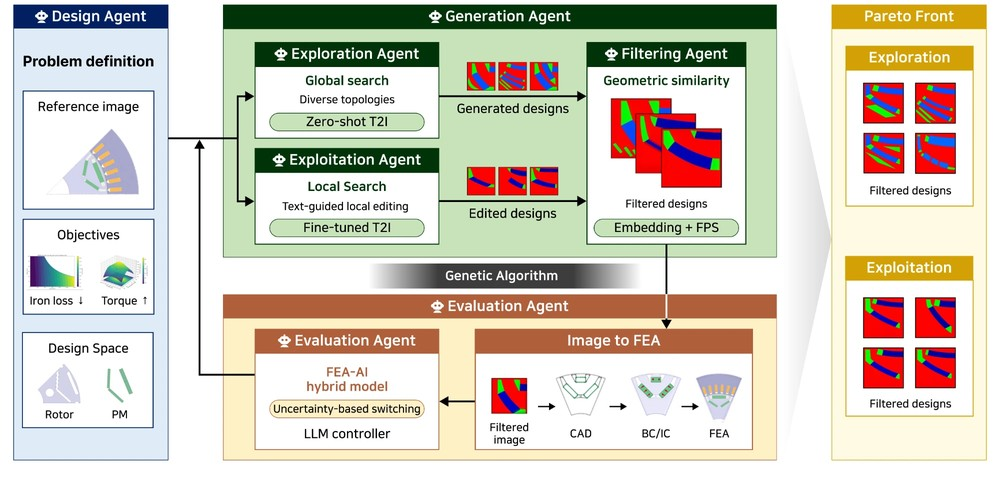
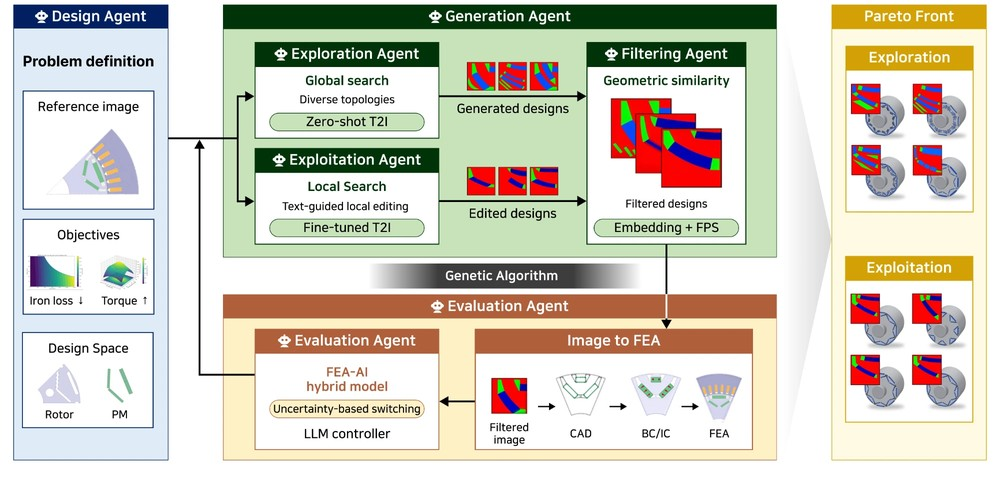
Research 02: overall figure with motor models on the Pareto front

Changed region(s): [[0.837, 0.5846, 0.992, 0.9061], [0.837, 0.1461, 0.992, 0.4676]]

diff --git a/index.html b/index.html
@@ -272,7 +272,7 @@
       <!-- Topic cards -->
       <div class="cards">
         <a class="card reveal" href="#r-nonparametric" data-modal="r-nonparametric">
-          <span class="card__fig paper"><img src="assets/img/research/overall_flow-thumb.jpg?v=4" width="1000" height="479" alt="Design, generation and evaluation agents for non-parametric motor design" loading="lazy" decoding="async"></span>
+          <span class="card__fig paper"><img src="assets/img/research/overall_flow-thumb.jpg?v=5" width="1000" height="479" alt="Design, generation and evaluation agents for non-parametric motor design" loading="lazy" decoding="async"></span>
           <span class="card__body">
             <span class="no">02</span>
             <b class="card__title">Multi-Agent based Non-parametric Motor Design Optimization</b>
@@ -596,7 +596,7 @@
         <p>The loop is evolutionary. Parents are the Pareto front of every design FEA has solved (non-dominated sorting with crowding), each generation mixes zero-shot topology moves with fine-tuned text edits, candidates pass a feasibility gate and a farthest-point filter in embedding space, and improvement is judged by ε-dominance over the parent. Every FEA outcome updates an operator scoreboard whose Thompson-sampled shares steer the next generation. On the Nabla_25838 baseline, five generations (300 FEA solves) raised the hypervolume 3.2× and found designs with up to 25 % lower iron loss. The live demo replays that campaign with its real data.</p>
       </div>
       <figure class="fig">
-        <a class="paper" href="assets/img/research/overall_flow.png?v=4" target="_blank" rel="noopener" title="Open full size"><img src="assets/img/research/overall_flow.png?v=4" width="2000" height="958" alt="Pipeline of a design agent, a generation agent made of exploration, exploitation and filtering agents, and an evaluation agent turning images into FEA models with an FEA–AI hybrid model, looped by a genetic algorithm into a Pareto front of exploration and exploitation designs" loading="lazy" decoding="async"></a>
+        <a class="paper" href="assets/img/research/overall_flow.png?v=5" target="_blank" rel="noopener" title="Open full size"><img src="assets/img/research/overall_flow.png?v=5" width="2000" height="958" alt="Pipeline of a design agent, a generation agent made of exploration, exploitation and filtering agents, and an evaluation agent turning images into FEA models with an FEA–AI hybrid model, looped by a genetic algorithm into a Pareto front of exploration and exploitation designs" loading="lazy" decoding="async"></a>
         <figcaption><b>Fig. 1</b> Multi-agent based IPMSM design — design, generation (exploration · exploitation · filtering) and evaluation agents.</figcaption>
       </figure>
       <figure class="fig">
